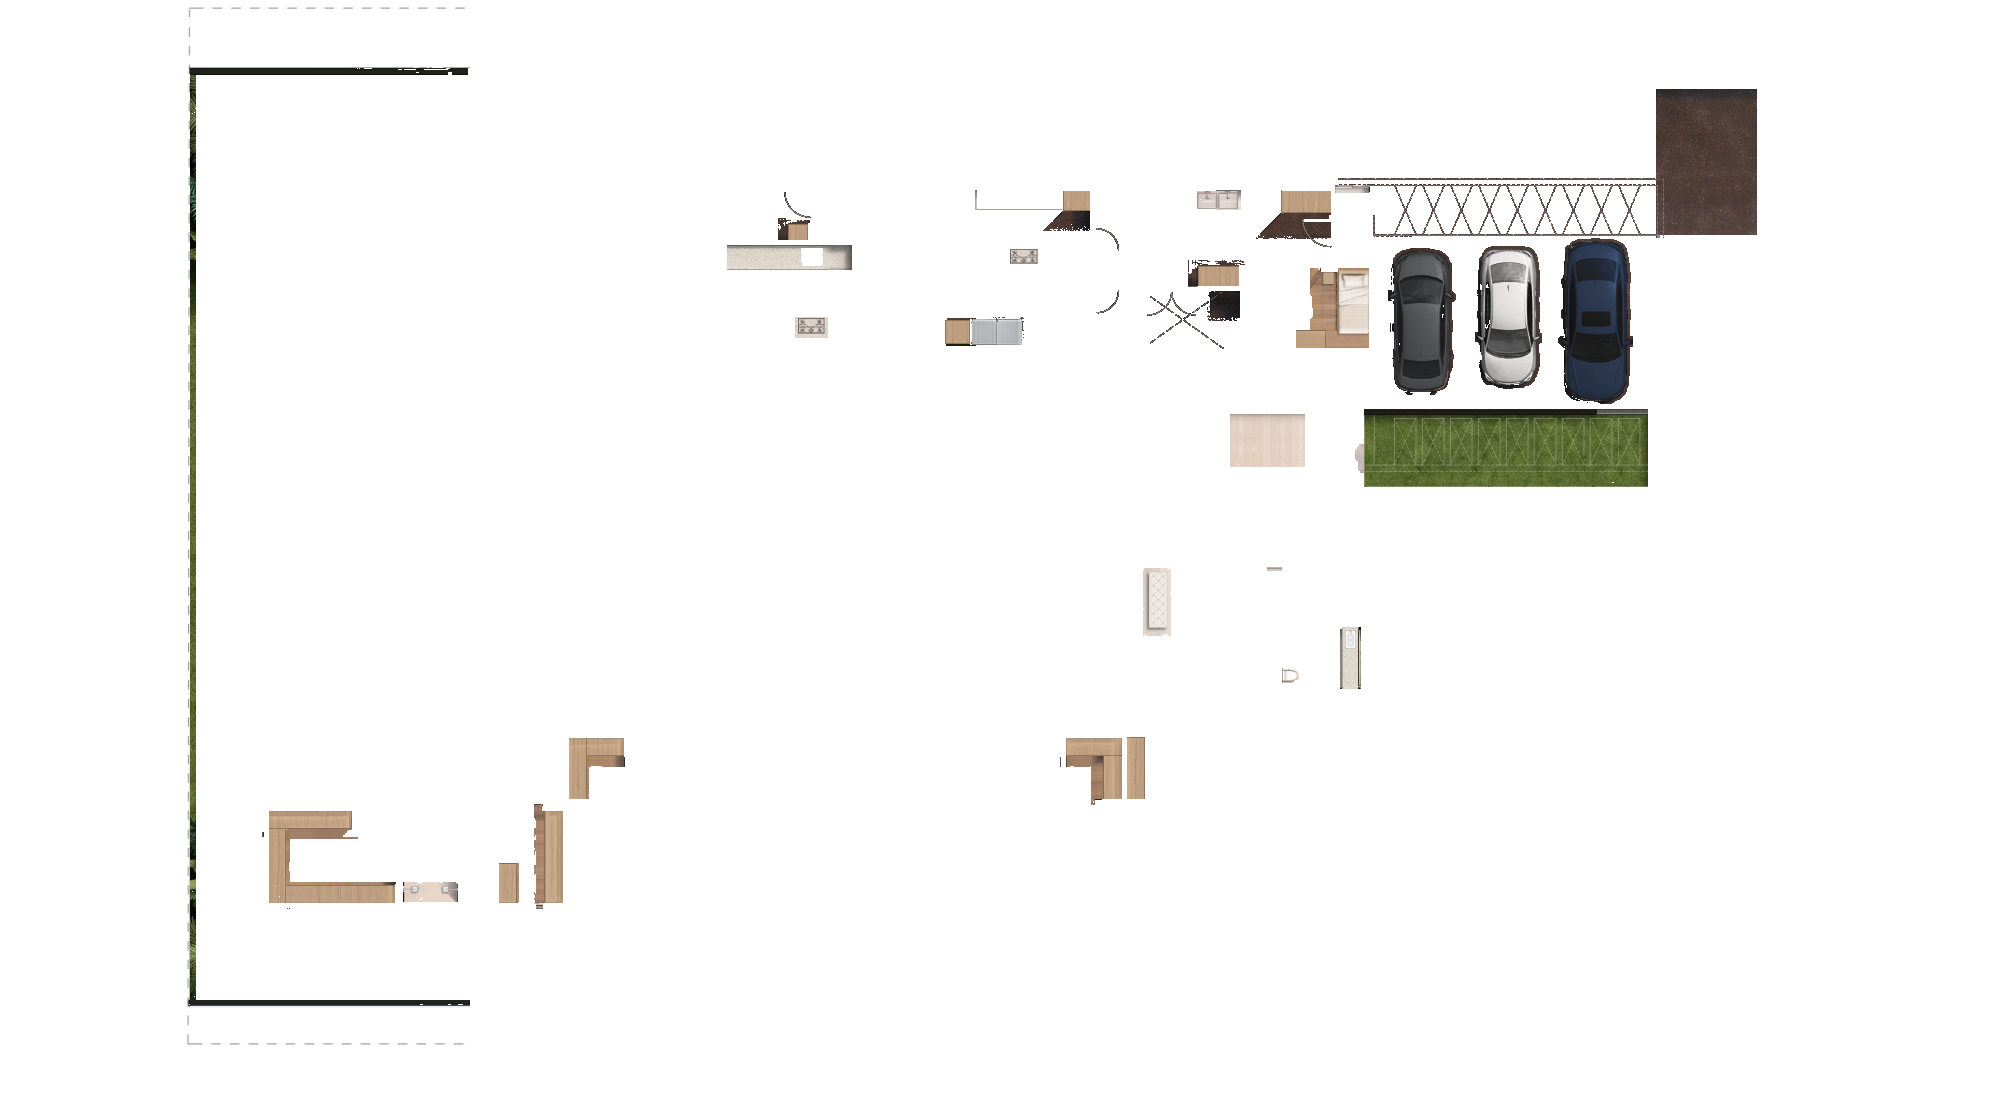
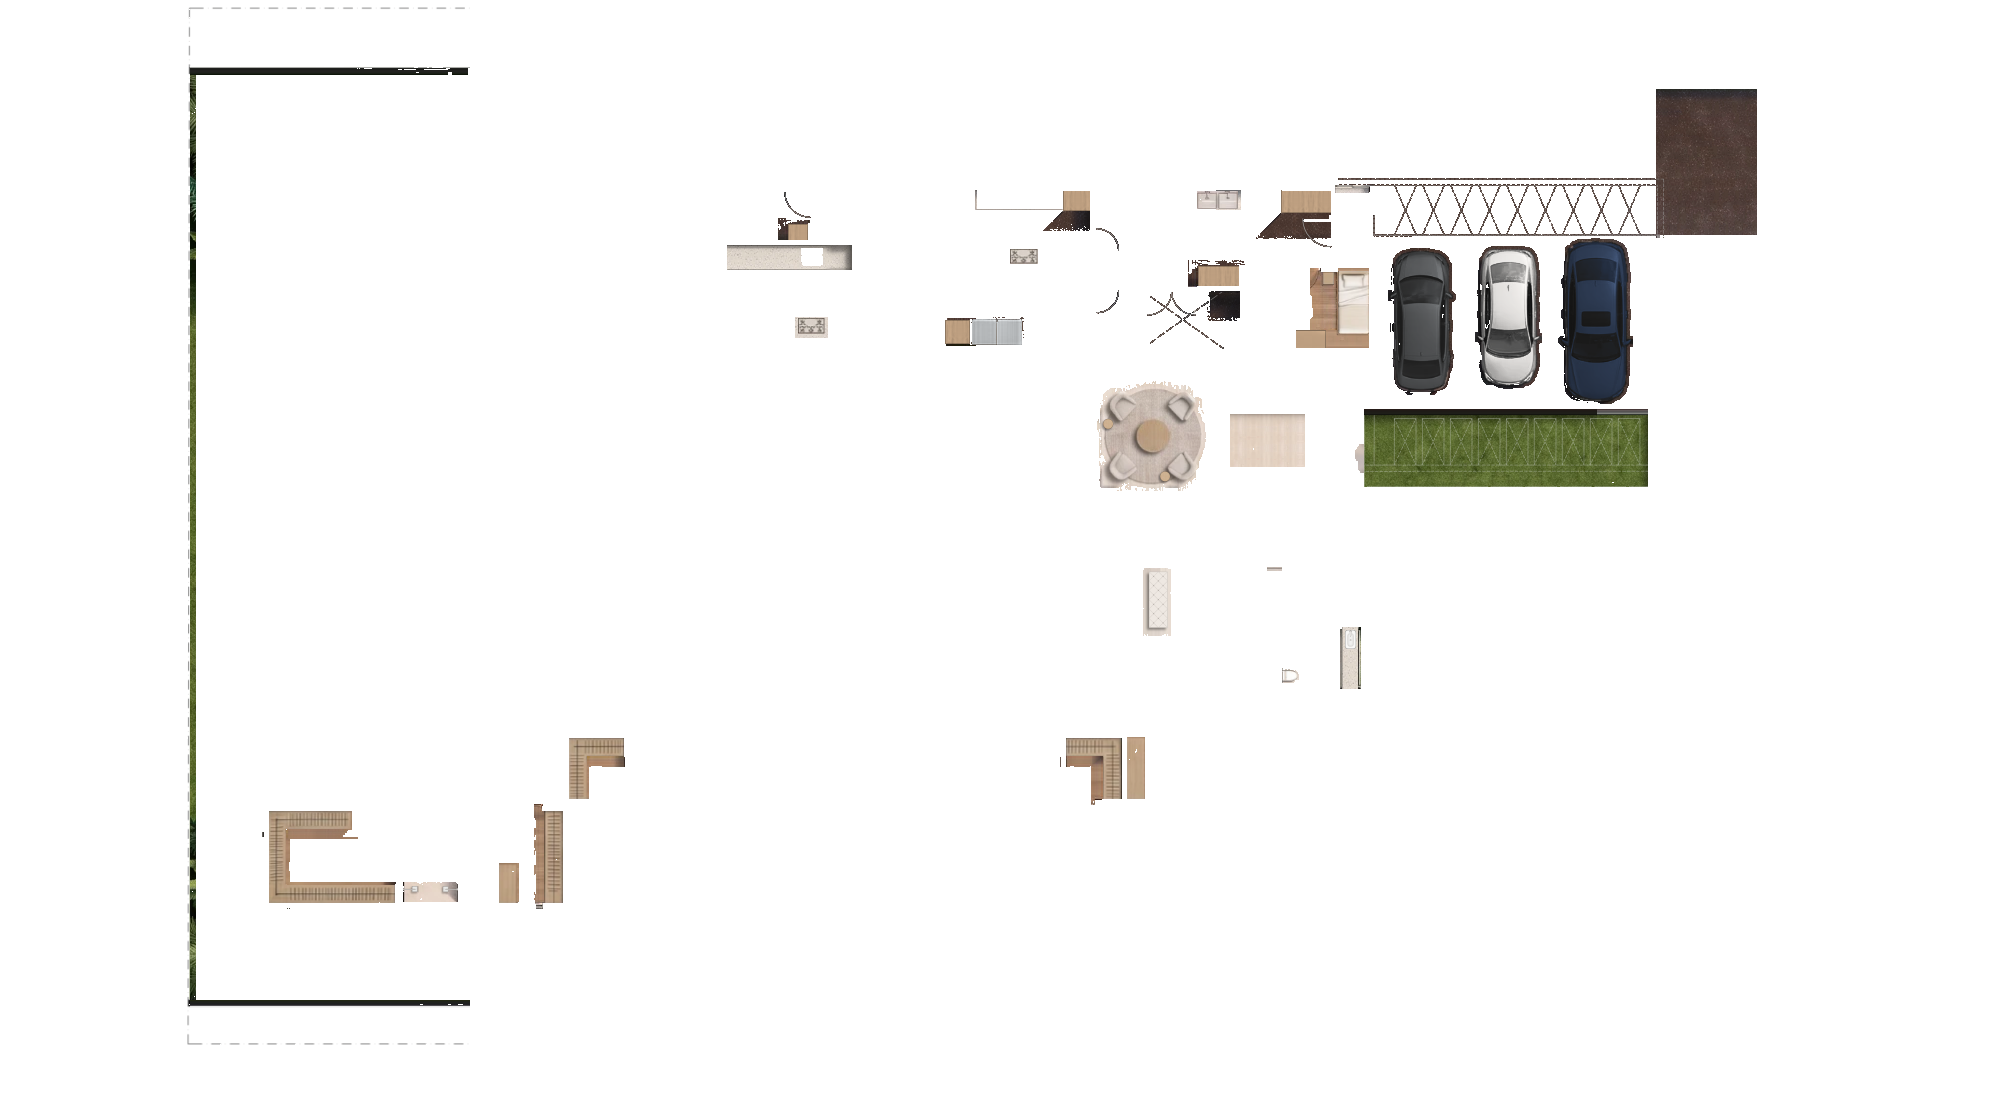
Casa D: armários dos quartos e mesa redonda (erro 16) da segunda imagem
Claude-Session: https://claude.ai/code/session_01Mm19WX3KoLN1nXMDF5Ay3F

diff --git a/projetos/POE642_CasaA/scripts/retoque_terreo_casad.py b/projetos/POE642_CasaA/scripts/retoque_terreo_casad.py
@@ -96,6 +96,17 @@ Os itens são corrigidos um a um, na ordem pedida pelo usuário.
    Elas saem com a sombra (cada coluna do travertino liga a faixa limpa de cima à de baixo, porque os
    veios são verticais) e entra o banco do PDF (ARQ_MOBILIÁRIO): estofado no tecido do sofá do render,
    com o capitonê em losangos (vincos e botões), contorno e a sombra curta dos móveis do render.
+21. Segunda imagem (renders/POE642_CasaD_PH_Terreo_v1_render_fonte2.webp, trazida pelo usuário, mesmo
+   prompt): os elementos prontos vêm dela em vez de serem criados (pedido do usuário), levada ao render
+   por SIFT + afim. Armários dos quartos (closet do master, circulação, à esquerda do banho 1, suítes 1
+   e 2): os closets abertos dela, vistos de cima com os cabides, no tom areia, no retângulo do PDF.
+22. Erro 16 da lista (mesa redonda): o motor fez a mesa com o dobro do diâmetro do PDF e sem as duas
+   mesinhas laterais. O conjunto (tapete, poltronas e a mesa no diâmetro do PDF) vem da segunda imagem:
+   o círculo do tapete e, perto das poltronas, onde as duas imagens diferem, com emenda suave e o tom
+   do travertino ajustado no anel limpo em volta. A planta sai do tampo (a madeira do próprio tampo
+   interpolada, com o veio da madeira do render) e entram as duas mesinhas do PDF, com contorno e
+   sombra curta, por baixo das poltronas. O tapete da segunda imagem é redondo (no PDF, orgânico, no
+   mesmo contorno externo).
 
 As coordenadas estão em px do render (2000 x 1116).
 
@@ -396,6 +407,47 @@ BANCO_ESTAR = {
     "sombra": {"desloc": (-2.0, 2.0), "sigma": 1.2, "forca": 0.4},
 }
 
+# mesa redonda do estar (erros 16 e 17): o motor fez a mesa com o dobro do diâmetro do PDF, com uma
+# planta em cima, e não fez as duas mesinhas laterais. O conjunto (tapete, poltronas e a mesa no
+# diâmetro do PDF) vem da segunda imagem (pedido do usuário): o círculo do tapete e, fora dele, onde
+# as duas imagens diferem (poltronas e sombras), com emenda suave. A planta sai do tampo (a madeira
+# do próprio tampo, interpolada, com o veio da madeira do render) e entram as duas mesinhas do PDF,
+# na madeira do render, com contorno e a sombra curta das mesas; por baixo das poltronas
+MESA_REDONDA = {
+    "janela": (1096, 378, 1212, 494),
+    "tapete": ((1152.8, 436.3), 51.0),
+    "limiar_dif": 22.0,
+    "tampo": ((1153.0, 435.0), 17.0),
+    "fonte_madeira": [(1122, 425, 1138, 455), (1168, 425, 1183, 455)],
+    "poltronas": [(1108.3, 390.8, 1136.9, 419.4), (1168.7, 390.8, 1197.3, 419.4),
+                  (1108.2, 451.2, 1136.8, 479.8), (1168.6, 451.2, 1197.2, 479.8)],
+    "mesinhas": [((1108.1, 423.9), 5.1), ((1165.05, 476.35), 5.1)],
+    "contorno": (80, 99, 118), "larg_contorno": 0.5,
+    "sombra": {"desloc": (-1.5, 1.5), "sigma": 1.0, "forca": 0.4},
+}
+# segunda imagem do motor (trazida pelo usuário, mesmo prompt): elementos prontos são tirados dela
+# (pedido do usuário: usar elementos dela em vez de criar), levada ao render por SIFT + afim
+FONTE2 = RAIZ / "POE642_CasaD/renders/POE642_CasaD_PH_Terreo_v1_render_fonte2.webp"
+# armários dos quartos (pedido do usuário): os da segunda imagem, closets abertos vistos de cima
+# (cabides) no tom areia, sem sombra de móvel baixo; entram no retângulo do PDF, sem as paredes
+ARMARIOS_FONTE2 = ["closet do master, braço de cima", "closet do master, braço da esquerda",
+                   "closet do master, braço de baixo", "circulação, à direita do banho master",
+                   "à esquerda do banho 1", "suíte 1, braço em pé", "suíte 1, braço deitado",
+                   "suíte 2, braço deitado", "suíte 2, braço em pé", "suíte 2, à direita"]
+
+
+def alinhar_fonte2(render):
+    """Segunda imagem levada ao render (SIFT + afim)."""
+    f2 = cv2.imread(str(FONTE2))
+    sift = cv2.SIFT_create(20000)
+    k1, d1 = sift.detectAndCompute(cv2.cvtColor(f2, cv2.COLOR_BGR2GRAY), None)
+    k2, d2 = sift.detectAndCompute(cv2.cvtColor(render, cv2.COLOR_BGR2GRAY), None)
+    pares = [a for a, b in cv2.BFMatcher().knnMatch(d1, d2, k=2) if a.distance < 0.7 * b.distance]
+    M, inl = cv2.estimateAffine2D(np.float32([k1[a.queryIdx].pt for a in pares]),
+                                  np.float32([k2[a.trainIdx].pt for a in pares]), ransacReprojThreshold=1.5)
+    print(f"    segunda imagem alinhada: {int(inl.sum())} pontos, escala {M[0, 0]:.4f} x {M[1, 1]:.4f}")
+    return cv2.warpAffine(f2, M, render.shape[1::-1], flags=cv2.INTER_LINEAR, borderValue=(255, 255, 255))
+
 
 def alinhar_base(render):
     """Base 16:9 reduzida e levada ao render por SIFT + afim; também a base chapada (v2)."""
@@ -432,12 +484,12 @@ def pdf_cadeia(A, forma_render):
     return pg, p2r
 
 
-def pdf_no_render(janela, A, forma_render):
-    """Trecho do PDF rasterizado e levado ao render pela mesma cadeia da base, em SS vezes a
-    resolução (cinza, 255 = papel)."""
+def mascara_pdf(janela, A, forma_render, filtro):
+    """Máscara (0..1, na resolução do render) dos desenhos do PDF escolhidos por filtro(d),
+    preenchidos, levados ao render pela mesma cadeia da base. Os desenhos são refeitos numa página
+    nova (o MuPDF não desliga as layers deste PDF no raster) e rasterizados em alta resolução."""
     cfg = json.loads(CONFIG.read_text())
-    doc = pymupdf.open(PDF)
-    pg = doc[cfg["pavimentos"]["Terreo"]["pagina"]]
+    pg = pymupdf.open(PDF)[cfg["pavimentos"]["Terreo"]["pagina"]]
     fx0, fy0, fx1, fy1 = cfg["recorte"]
     clip = pymupdf.Rect(pg.rect.width * fx0, pg.rect.height * fy0, pg.rect.width * fx1, pg.rect.height * fy1)
     zoom = cfg["largura_px"] / clip.width
@@ -455,18 +507,57 @@ def pdf_no_render(janela, A, forma_render):
         bx, by, _ = Ai @ [x, y, 1]
         return (bx / sx - (wt - wb) // 2) / zoom + clip.x0, (by / sy - (ht - hb) // 2) / zoom + clip.y0
 
+    nova = pymupdf.open()
+    pn = nova.new_page(width=pg.rect.width, height=pg.rect.height)
+    sh = pn.new_shape()
+    for d in pg.get_drawings():
+        if not filtro(d):
+            continue
+        for it in d["items"]:
+            if it[0] == "l":
+                sh.draw_line(it[1], it[2])
+            elif it[0] == "c":
+                sh.draw_bezier(it[1], it[2], it[3], it[4])
+            elif it[0] == "re":
+                sh.draw_rect(it[1])
+            elif it[0] == "qu":
+                sh.draw_quad(it[1])
+        sh.finish(fill=(0, 0, 0), color=None, closePath=d.get("closePath", True), even_odd=d.get("even_odd", False))
+    sh.commit()
     x0, y0, x1, y1 = janela
     a, b = r2p(x0 - 2, y0 - 2), r2p(x1 + 2, y1 + 2)
     ret = pymupdf.Rect(a[0], a[1], b[0], b[1])
     zp = 60
-    pix = pg.get_pixmap(clip=ret, matrix=pymupdf.Matrix(zp, zp), alpha=False, colorspace=pymupdf.csGRAY)
-    img = np.frombuffer(pix.samples, np.uint8).reshape(pix.height, pix.width)
+    pix = pn.get_pixmap(clip=ret, matrix=pymupdf.Matrix(zp, zp), alpha=False, colorspace=pymupdf.csGRAY)
+    img = 255 - np.frombuffer(pix.samples, np.uint8).reshape(pix.height, pix.width)
     src = [(0, 0), (pix.width, 0), (0, pix.height)]
-    dst = [((p2r(ret.x0 + u / zp, ret.y0 + v / zp)[0] - x0) * SS, (p2r(ret.x0 + u / zp, ret.y0 + v / zp)[1] - y0) * SS)
-           for u, v in src]
+    dst = [(p2r(ret.x0 + u / zp, ret.y0 + v / zp)[0] - x0, p2r(ret.x0 + u / zp, ret.y0 + v / zp)[1] - y0) for u, v in src]
     M = cv2.getAffineTransform(np.float32(src), np.float32(dst))
-    return cv2.warpAffine(np.ascontiguousarray(img), M, ((x1 - x0) * SS, (y1 - y0) * SS), flags=cv2.INTER_AREA,
-                          borderValue=255)
+    return cv2.warpAffine(np.ascontiguousarray(img).astype(np.float32) / 255, M, (x1 - x0, y1 - y0),
+                          flags=cv2.INTER_AREA, borderValue=0)
+
+
+def interpolar(valores, peso, sigma):
+    """Convolução normalizada em várias escalas: em cada px vale a menor escala (sigma, 2 sigma, ...)
+    com suporte suficiente de px com peso."""
+    w = peso.astype(np.float32)
+    if valores.ndim == 3:
+        w = w[..., None]
+    w = np.broadcast_to(w, valores.shape).astype(np.float32)
+    res = np.zeros(valores.shape, np.float32)
+    feito = np.zeros(valores.shape, bool)
+    s = sigma
+    for k in range(6):
+        num = cv2.GaussianBlur(valores * w, (0, 0), s)
+        den = cv2.GaussianBlur(w, (0, 0), s)
+        ok = (den > (0.08 if k < 5 else 1e-5)) & ~feito
+        res[ok] = num[ok] / den[ok]
+        feito |= ok
+        s *= 2
+    resto = ~feito
+    if resto.any():
+        res[resto] = (valores * w).sum() / max(w.sum(), 1e-6) if valores.ndim == 2 else 0
+    return res
 
 
 def grama(out, fontes, alto, largo):
@@ -1297,6 +1388,93 @@ def banco_estar(out):
     return out
 
 
+def mesa_redonda(out, f2, orig):
+    q = MESA_REDONDA
+    wx0, wy0, wx1, wy1 = q["janela"]
+    h, w = wy1 - wy0, wx1 - wx0
+    yy, xx = np.mgrid[wy0:wy1, wx0:wx1].astype(np.float32) + 0.5
+    madeira = textura(orig, q["fonte_madeira"], 40, 40)                 # antes de colar (o tampo do motor)
+    cor_madeira = np.median(np.concatenate([orig[b:d, a:c].reshape(-1, 3) for a, b, c, d in q["fonte_madeira"]]).astype(np.float32), axis=0)
+    fonte = f2[wy0:wy1, wx0:wx1].astype(np.float32)
+    reg = out[wy0:wy1, wx0:wx1].astype(np.float32)
+    (cx, cy), r = q["tapete"]
+    circ = ((xx - cx) ** 2 + (yy - cy) ** 2 <= r * r).astype(np.uint8)
+    dif = cv2.GaussianBlur(np.abs(fonte - orig[wy0:wy1, wx0:wx1].astype(np.float32)).mean(axis=2), (0, 0), 1.5)
+    perto = np.zeros((h, w), np.uint8)                                   # perto das poltronas (as duas imagens)
+    for x0, y0, x1, y1 in q["poltronas"]:
+        perto[max(int(y0) - wy0 - 6, 0):int(y1) - wy0 + 7, max(int(x0) - wx0 - 6, 0):int(x1) - wx0 + 7] = 1
+    m = circ | (cv2.dilate((dif > q["limiar_dif"]).astype(np.uint8), np.ones((7, 7), np.uint8)) & perto)
+    m = cv2.morphologyEx(m, cv2.MORPH_CLOSE, np.ones((5, 5), np.uint8))
+    # o travertino da segunda imagem é um pouco mais claro: ajuste por canal no anel limpo em volta
+    anel = ((xx - cx) ** 2 + (yy - cy) ** 2 > (r + 3) ** 2) & (dif < 10) & (m == 0)
+    fonte *= (np.median(orig[wy0:wy1, wx0:wx1][anel].astype(np.float32), axis=0) / np.median(fonte[anel], axis=0))[None, None]
+    a = cv2.GaussianBlur(m.astype(np.float32), (0, 0), 1.2)
+    a[:3], a[-3:], a[:, :3], a[:, -3:] = 0, 0, 0, 0
+    reg = reg * (1 - a[..., None]) + fonte * a[..., None]
+
+    # planta (e a sombra dela) fora do tampo
+    (tx, ty), tr = q["tampo"]
+    disco = (xx - tx) ** 2 + (yy - ty) ** 2 <= (tr - 1.5) ** 2
+    Y = reg.mean(axis=2)
+    verde = (reg[..., 1] > reg[..., 2] + 2) & disco
+    Ym = np.median(Y[disco & ~verde])
+    planta = cv2.dilate((verde | (disco & (Y < 0.86 * Ym))).astype(np.uint8), np.ones((5, 5), np.uint8)).astype(bool) & disco
+    liso = interpolar(reg, disco & ~planta, 2.0)
+    veio = cv2.resize(madeira, (2 * int(tr) + 4, 2 * int(tr) + 4), interpolation=cv2.INTER_LINEAR)
+    veio = veio / cv2.GaussianBlur(veio, (0, 0), 3.0)
+    vy0, vx0 = int(ty - tr - 2) - wy0, int(tx - tr - 2) - wx0
+    v = np.ones_like(reg)
+    v[vy0:vy0 + veio.shape[0], vx0:vx0 + veio.shape[1]] = veio
+    reg[planta] = (liso * v)[planta]
+
+    # mesinhas
+    pol = np.zeros((h, w), bool)
+    for x0, y0, x1, y1 in q["poltronas"]:
+        pol[int(y0) - wy0 - 1:int(np.ceil(y1)) - wy0 + 1, int(x0) - wx0 - 1:int(np.ceil(x1)) - wx0 + 1] = True
+    Y = reg.mean(axis=2)
+    poltrona = pol & (Y > 205) & (reg[..., 2] - reg[..., 0] < 22)
+
+    def disco_ss(centro, raio):
+        mm = np.zeros((h * SS, w * SS), np.uint8)
+        cv2.circle(mm, (int(round((centro[0] - wx0) * SS)), int(round((centro[1] - wy0) * SS))), int(round(raio * SS)), 255, -1)
+        return mm
+
+    s = q["sombra"]
+    M = np.float32([[1, 0, s["desloc"][0] * SS], [0, 1, s["desloc"][1] * SS]])
+    for centro, raio in q["mesinhas"]:
+        mm = disco_ss(centro, raio)
+        sb = cv2.GaussianBlur(cv2.warpAffine(mm.astype(np.float32), M, (w * SS, h * SS)), (0, 0), s["sigma"] * SS) / 255
+        sb = cv2.resize(sb, (w, h), interpolation=cv2.INTER_AREA) * ~poltrona
+        reg *= (1 - s["forca"] * sb)[..., None]
+        cor = np.zeros((h * SS, w * SS, 3), np.float32)
+        x0, y0 = int(round((centro[0] - raio - wx0) * SS)), int(round((centro[1] - raio - wy0) * SS))
+        lado = int(round(2 * raio * SS)) + 2
+        cor[y0:y0 + lado, x0:x0 + lado] = cv2.resize(madeira, (lado, lado), interpolation=cv2.INTER_LINEAR) * cor_madeira
+        anel = np.zeros_like(mm)
+        cv2.circle(anel, (int(round((centro[0] - wx0) * SS)), int(round((centro[1] - wy0) * SS))),
+                   int(round(raio * SS)), 255, max(1, int(round(q["larg_contorno"] * SS))))
+        cor[anel > 0] = q["contorno"]
+        am = cv2.resize(mm.astype(np.float32) / 255, (w, h), interpolation=cv2.INTER_AREA)
+        cc = cv2.resize(cor * (mm[..., None] / 255), (w, h), interpolation=cv2.INTER_AREA) / np.maximum(am, 1e-6)[..., None]
+        al = (am * ~poltrona)[..., None]
+        reg = reg * (1 - al) + cc * al
+    out[wy0:wy1, wx0:wx1] = np.clip(reg, 0, 255).astype(np.uint8)
+    print("    mesa redonda, tapete e poltronas da segunda imagem; planta fora do tampo; as duas mesinhas do PDF")
+    return out
+
+
+def armarios_fonte2(out, f2, chapada):
+    grossa = parede_grossa(chapada)
+    rets = dict(ARMARIOS)
+    for nome in ARMARIOS_FONTE2:
+        x0, y0, x1, y1 = (int(round(v)) for v in rets[nome])
+        m = ~grossa[y0:y1, x0:x1]
+        alvo = out[y0:y1, x0:x1]
+        alvo[m] = f2[y0:y1, x0:x1][m]
+        print(f"    {nome}: armário da segunda imagem")
+    return out
+
+
 def main():
     ap = argparse.ArgumentParser(description=__doc__, formatter_class=argparse.RawDescriptionHelpFormatter)
     ap.add_argument("render", type=Path)
@@ -1314,6 +1492,8 @@ def main():
     _, chapada, _ = alinhar_base(orig)
     out = armarios(out, chapada)
     out = piso_sob_armario(out, chapada)
+    f2 = alinhar_fonte2(orig)
+    out = armarios_fonte2(out, f2, chapada)
     print("[4] área molhada da bancada da pia")
     out = area_molhada(out)
     print("[5] eletrodomésticos em inox")
@@ -1351,6 +1531,8 @@ def main():
     out = lavabo(out)
     print("[20] erro 15: banco capitonê do estar")
     out = banco_estar(out)
+    print("[21] erros 16 e 17: mesa redonda, tapete e mesinhas")
+    out = mesa_redonda(out, f2, orig)
 
     args.saida.mkdir(parents=True, exist_ok=True)
     cv2.imwrite(str(args.saida / f"{args.nome}.png"), out)

diff --git a/projetos/POE642_CasaA/scripts/README.md b/projetos/POE642_CasaA/scripts/README.md
@@ -251,6 +251,7 @@ Mesmo método da Casa C (render retocado sem IA, item por item, na ordem pedida 
 - **Bancada da gourmet (erro 12):** quartzo por `textura` na cor da bancada do cooktop, vezes o perfil de luz por linha (e a luz 2D junto à geladeira); na caixa da cuba, só os px de madeira mudam.
 - **Adega e lavabo (erros 13 e 14):** adega em travertino por `textura` com a sombra da parede de cima; no lavabo, bancada por `textura` com contorno e sombra, cuba da Casa B (`cuba`, virada para a torneira ficar em cima), o vidro do render deslocado para depois da bancada e o vaso da Casa C por `colar_vaso`.
 - **Banco capitonê (erro 15):** as poltronas saem por interpolação vertical coluna a coluna (veios verticais); o banco é desenhado em 8x (corpo, vincos em losango, botões, borda) com a sombra deslocada e desfocada.
+- **Segunda imagem:** `alinhar_fonte2` (SIFT + afim) leva a segunda imagem ao render; `armarios_fonte2` cola os armários dos quartos dela; `mesa_redonda` cola o conjunto da mesa (círculo do tapete e diferenças perto das poltronas, com o tom ajustado), tira a planta (`interpolar` em várias escalas, com o veio) e desenha as mesinhas.
 
 ```bash
 python retoque_terreo_casad.py ../../POE642_CasaD/renders/POE642_CasaD_PH_Terreo_v1_render.webp --saida ../../POE642_CasaD/renders --nome POE642_CasaD_PH_Terreo_v1_retocado

diff --git a/projetos/POE642_HANDOFF_SESSAO_LOCAL.md b/projetos/POE642_HANDOFF_SESSAO_LOCAL.md
@@ -386,3 +386,5 @@ python texturizar_base.py Subsolo ../../POE642_CasaC/bases/POE642_CasaC_BASE_Sub
   18. erro 13 da lista: a adega volta a ser vazia (travertino), sem o lavabo inventado.
   19. erro 14 da lista: lavabo com a bancada de quartzo e cuba junto à parede da direita (onde a base tinha pintado jardim) e o vaso suspenso da Casa C.
   20. erro 15 da lista: as duas poltronas à direita do estar saem e entra o banco capitonê do PDF (tecido do sofá, losangos com botões).
+  21. segunda imagem do motor (`renders/POE642_CasaD_PH_Terreo_v1_render_fonte2.webp`, trazida pelo usuário): fonte de elementos prontos. Armários dos quartos: os closets com cabides dela, no tom areia.
+  22. erro 16 da lista: mesa redonda, tapete e poltronas da segunda imagem (mesa no diâmetro do PDF), sem a planta, e as duas mesinhas do PDF. O tapete segue redondo (no PDF é orgânico).
